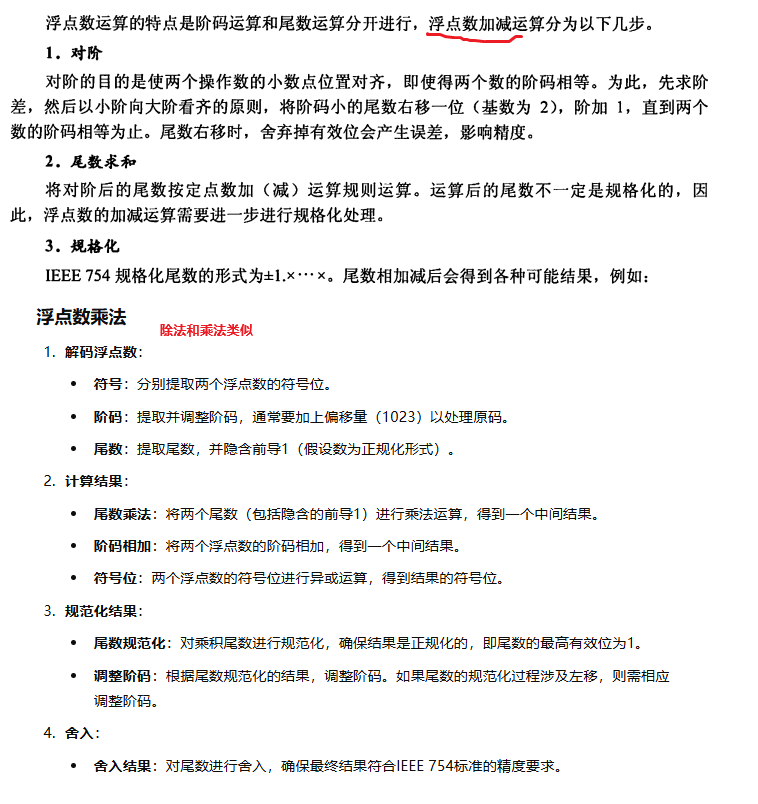
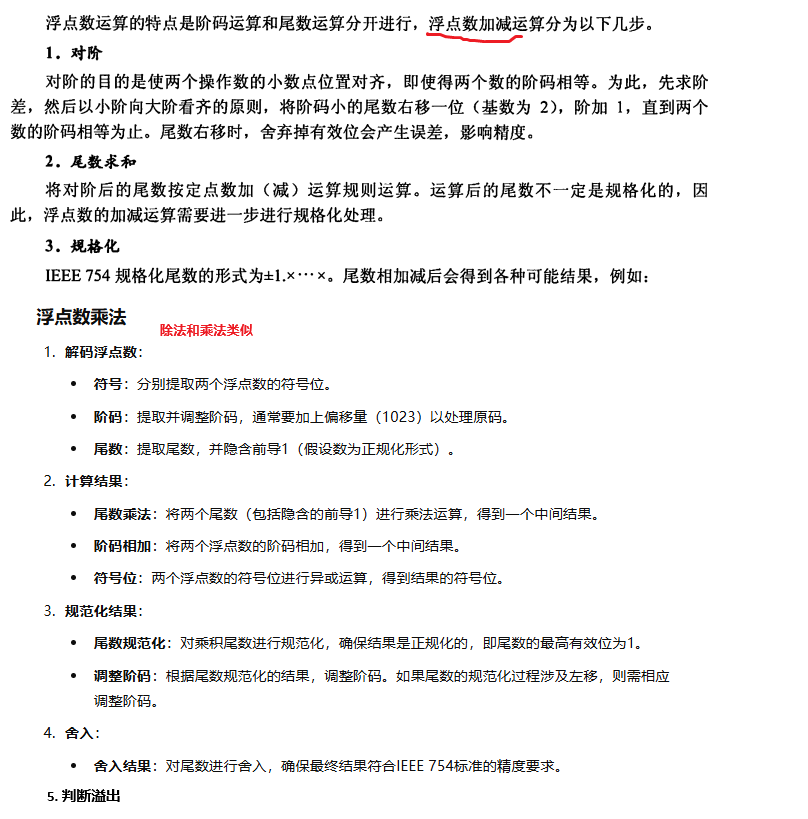
x

Changed region(s): [[0.0, 0.0, 0.9406, 0.995]]

diff --git a/计算机专业课-组成原理.md b/计算机专业课-组成原理.md
@@ -8,9 +8,17 @@
 
 ![image-20240912151720759](img/image-20240912151720759.png)
 
-
+### 2.2 加减乘除和溢出判断
 
 ![image-20240917023933018](img/image-20240917023933018.png)
+
+![image-20240917105403123](img/image-20240917105403123.png)
+
+![image-20240917104554534](img/image-20240917104554534.png)
+
+
+
+
 
 ![image-20240912154133287](img/image-20240912154133287.png)
 
